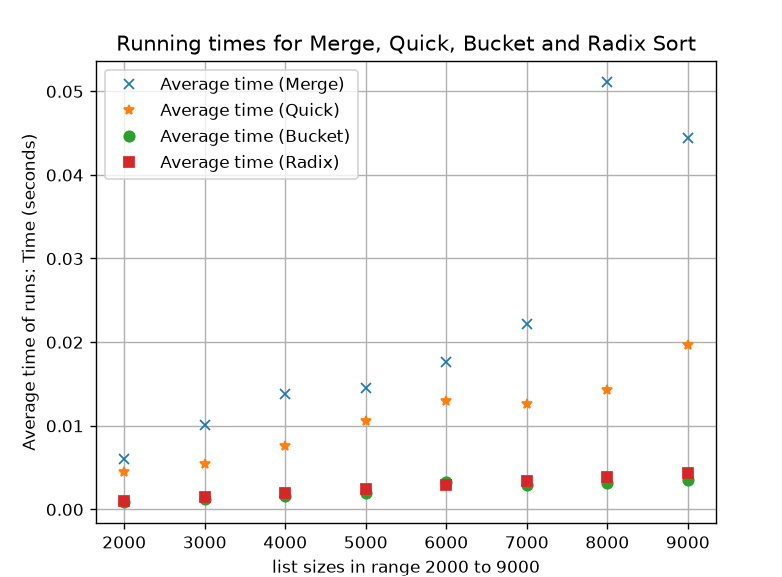
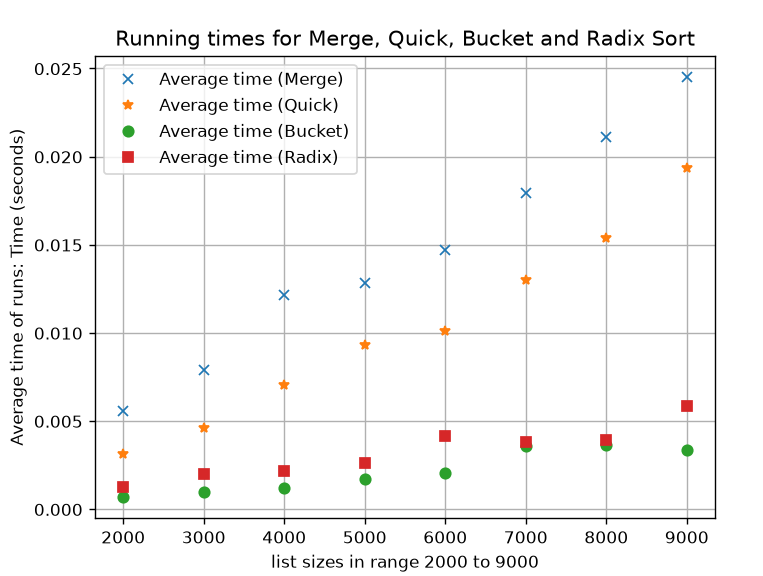
add new picture of graph

diff --git a/part3/report.md b/part3/report.md
@@ -150,7 +150,7 @@ The log.log regression gave these K values:
 
 The result gives all four algorithm a K value close to one, this first of all shows that these algorithms execution grows much more slowly than the quadratic algorithms from previous experiments. Bucket and radix sort results is consistent with an approximate linear behaviour we are looking for. For merge sort and quick sort the measured growth was also close to linear for the input sizes I used which I find really interesting. This does not automatically mean that their theoretical time complexity is O(n) because the K value only describes measured growth in my experiments.
 
- ![Merge, Quick, Bucket, Raidx - graph2](../graphs/rc_merge_quick_bucket_radix.png)
+ ![Merge, Quick, Bucket, Raidx - graph2](../graphs/tc_merge_quick_bucket_radix.png)
 
 
 
